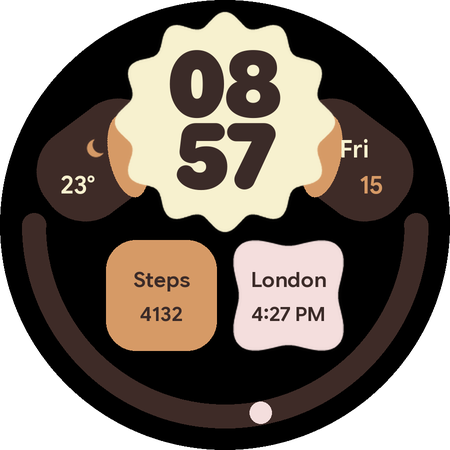
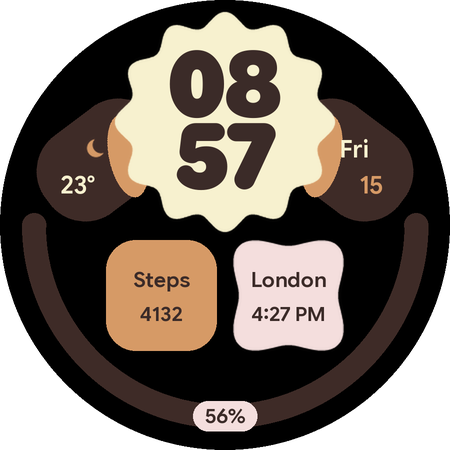
Bloom: show the arc's value as a percentage badge instead of a dot
Claude-Session: https://claude.ai/code/session_014ogRddgb5uq3hP25GXcqLX

Changed region(s): [[0.4044, 0.8711, 0.6222, 0.9644]]

diff --git a/faces/bloom/design/gen_watchface.py b/faces/bloom/design/gen_watchface.py
@@ -68,8 +68,9 @@ TILE_R = 30
 TITLE_CY, VALUE_CY = 40, 74              # centres of the two text lines inside a tile
 
 # ---- Bottom arc -------------------------------------------------------------------------------
-ARC_R, ARC_T, ARC_DOT = 191, 24, 22
-ARC_A0, ARC_A1 = 270, 90                  # value 0 at 9 o'clock, full at 3 o'clock
+ARC_R, ARC_T = 191, 24
+ARC_A0, ARC_A1 = 270, 90                  # the track runs from 9 to 3 o'clock through 6
+BADGE_W, BADGE_H = 64, 30                 # percentage badge, sitting on the track at 6 o'clock
 ARC_BOX = (21, 212, 408, 217)            # slot box: lower half of the dial
 
 # ---- Second time zone ----------------------------------------------------------------------------
@@ -266,19 +267,20 @@ def arc_slot():
     x, y, W, H = ARC_BOX
     cx, cy = CX - x, CY - y
 
-    def dot(frac):
-        a = f"{ARC_A0} - {ARC_A0 - ARC_A1} * clamp({frac}, 0, 1)"
-        d = 2 * ARC_R
-        return (f'<PartDraw x="0" y="0" width="{W}" height="{H}">\n'
-                f'  <Arc centerX="{cx}" centerY="{cy}" width="{d}" height="{d}" startAngle="{ARC_A0}" endAngle="{ARC_A0 + 1}">\n'
-                f'    <Stroke color="{c(4)}" thickness="{ARC_DOT}" cap="ROUND"/>\n'
-                f'    <Transform target="startAngle" value="{a}"/>\n'
-                f'    <Transform target="endAngle" value="{a} + 1"/>\n'
-                f'  </Arc>\n'
-                f'</PartDraw>\n')
+    def badge(frac):
+        """Value as a whole percentage in a pill on the bottom of the track."""
+        bx, by = round(cx - BADGE_W / 2), round(cy + ARC_R - BADGE_H / 2)
+        r = BADGE_H / 2
+        pct = tmpl("%d", [f"round(100 * clamp({frac}, 0, 1))"]) + "%"
+        return (f'<PartDraw x="{bx}" y="{by}" width="{BADGE_W}" height="{BADGE_H}">\n'
+                f'  <RoundRectangle x="0" y="0" width="{BADGE_W}" height="{BADGE_H}" cornerRadiusX="{r}" cornerRadiusY="{r}">\n'
+                f'    <Fill color="{c(4)}"/>\n'
+                f'  </RoundRectangle>\n'
+                f'</PartDraw>\n'
+                + text(bx, by, BADGE_W, BADGE_H, pct, 20, c(1)))
     bound = (f'<BoundingArc centerX="{cx}" centerY="{cy}" width="{2 * ARC_R}" height="{2 * ARC_R}" '
              f'thickness="{ARC_T + 16}" startAngle="{ARC_A1}" endAngle="{ARC_A0}" isRoundEdge="TRUE"/>')
-    parts = {"RANGED_VALUE": dot(RANGE), "GOAL_PROGRESS": dot(GOAL), "EMPTY": ""}
+    parts = {"RANGED_VALUE": badge(RANGE), "GOAL_PROGRESS": badge(GOAL), "EMPTY": ""}
     return wff.slot_xml(4, "slot_arc", x, y, W, H, "RANGED_VALUE GOAL_PROGRESS EMPTY",
                         "WATCH_BATTERY", "RANGED_VALUE", parts, bound)
 

diff --git a/faces/bloom/design/render_preview.py b/faces/bloom/design/render_preview.py
@@ -102,10 +102,12 @@ def render(theme=0, sample="08:57", weather="wx_moon", city=("London", "4:27 PM"
     d = ImageDraw.Draw(im)
     line(d, x1 + T / 2, g.TILE_Y + g.TITLE_CY, T - 8, city[0], 21, cs[1])
     line(d, x1 + T / 2, g.TILE_Y + g.VALUE_CY, T - 8, city[1], 20, cs[1])
-    # arc dot
-    x, y = preview_point(g.ARC_R, g.ARC_A0 - (g.ARC_A0 - g.ARC_A1) * frac)
-    rr = g.ARC_DOT / 2 * SS
-    d.ellipse((x - rr, y - rr, x + rr, y + rr), fill=cs[4])
+    # arc percentage badge at 6 o'clock
+    by = g.CY + g.ARC_R
+    bw, bh = g.BADGE_W, g.BADGE_H
+    d.rounded_rectangle(((g.CX - bw / 2) * SS, (by - bh / 2) * SS, (g.CX + bw / 2) * SS, (by + bh / 2) * SS),
+                        radius=bh / 2 * SS, fill=cs[4])
+    line(d, g.CX, by, bw, f"{round(frac * 100)}%", 20, cs[1])
     return preview.finish(im, SS)
 
 

diff --git a/faces/bloom/README.md b/faces/bloom/README.md
@@ -20,7 +20,7 @@ and a progress arc along the bottom. 12 color themes.
 | Right pod (complication) | same. **Empty = date** (weekday + day) | Empty |
 | Bottom left tile (complication) | same | Steps |
 | Bottom right tile (complication) | same. **Empty = second time zone** | Empty |
-| Bottom arc (complication) | ranged value or goal, shown as a dot along the arc | Watch battery |
+| Bottom arc (complication) | ranged value or goal, shown as a percentage badge at the bottom of the arc | Watch battery |
 
 **How the dual clock works.** The bottom right tile is a normal complication slot. While it is
 empty it shows the city and time from the *Second time zone* setting (12 or 24 h, following the
